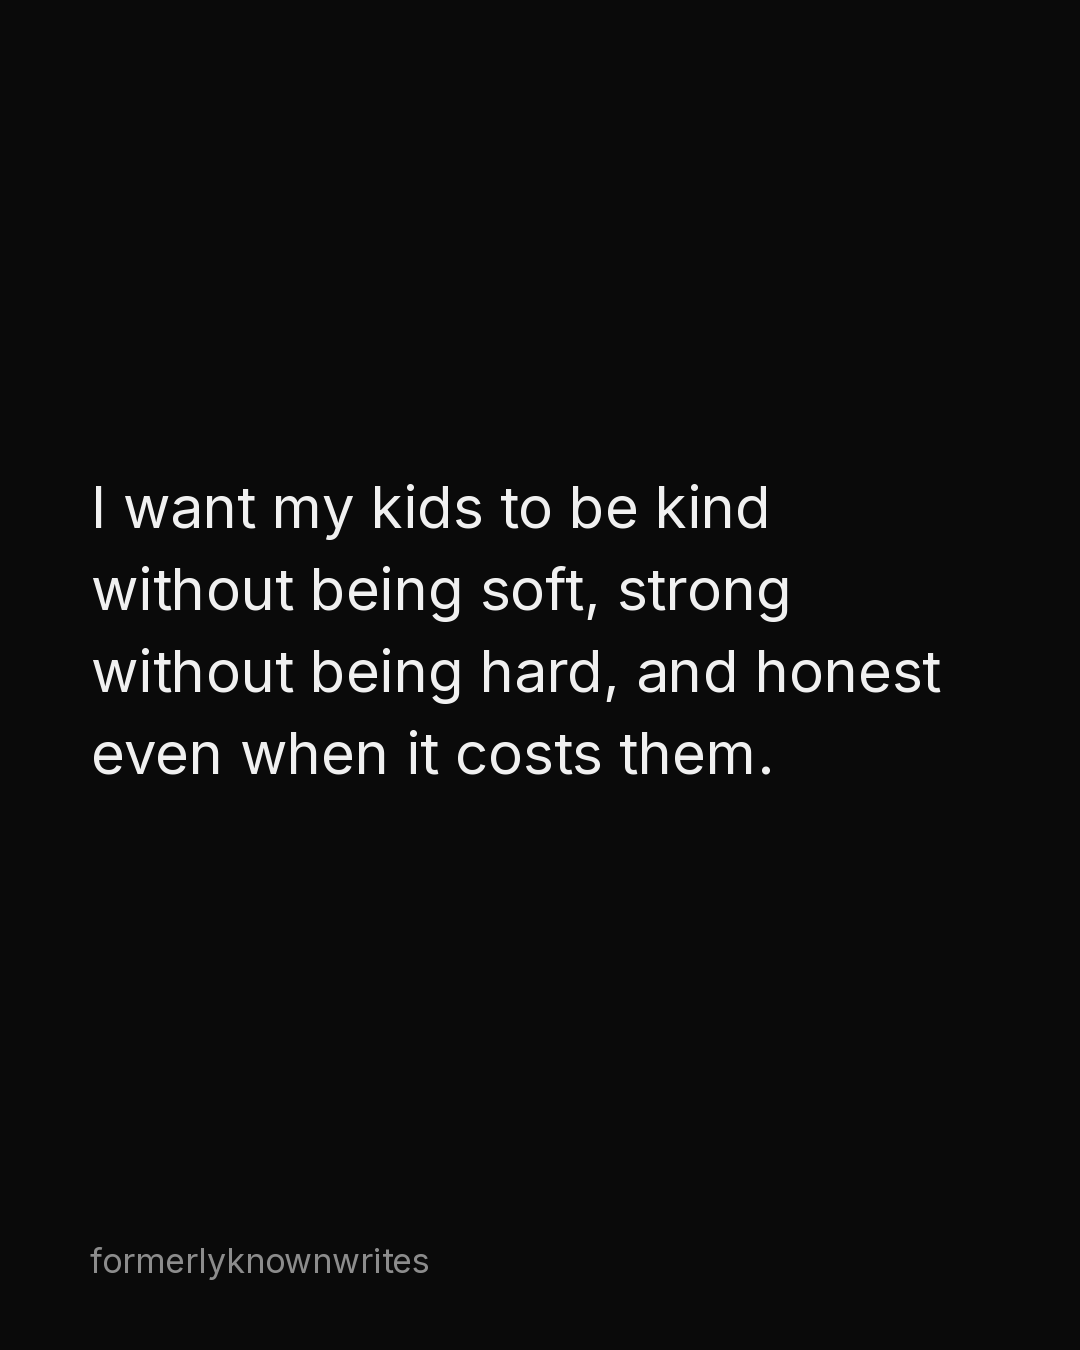
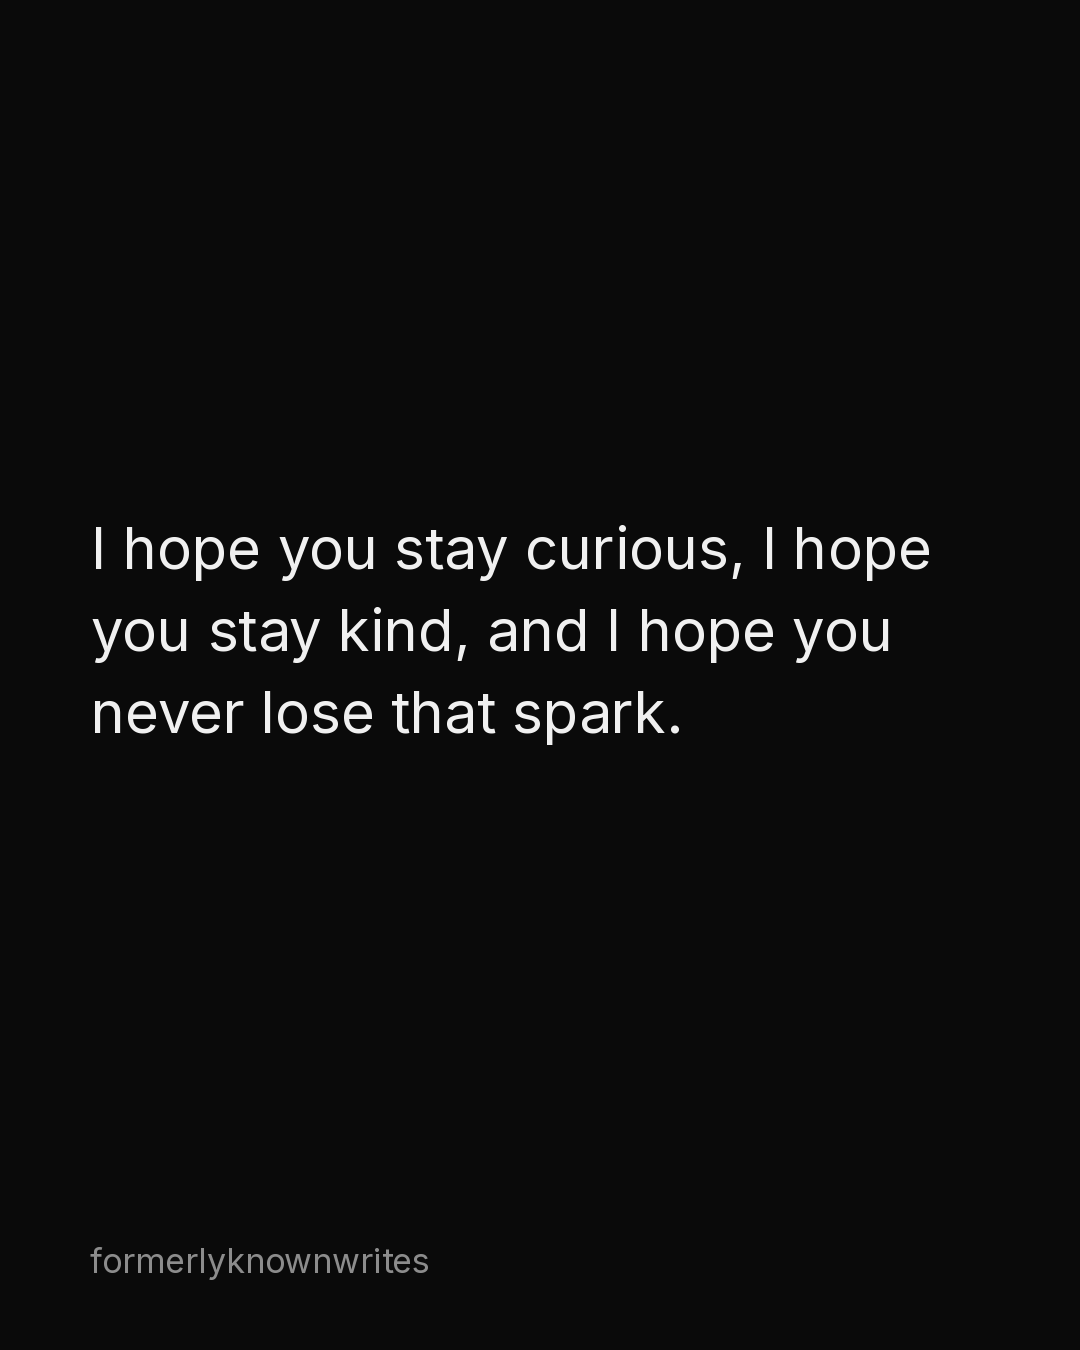
Rewrite scheduled fatherhood posts in a warmer voice and tune refill voice
Claude-Session: https://claude.ai/code/session_01CxChRxeGvQoxpyPYG1GdJD

Changed region(s): [[0.0917, 0.3422, 0.8861, 0.5911]]

diff --git a/tools/refill.py b/tools/refill.py
@@ -43,6 +43,7 @@ Hard rules:
 - Never use em dashes or en dashes. Use commas, periods, or parentheses.
 - Universal wording only. Never point at a specific person or relationship. Every post must be about an experience in general and read as safe if screenshotted and shown to anyone.
 - Tone for any post about parenting: warm, patient, steady, and child-centered. Never harsh, rigid, cold, or controlling. No lines about a cruel or ungentle world, and no scorekeeping about who shows up or when.
+- Parenting voice, how this father actually talks about his kids: tender and affirming, often speaking straight to the child ("you"). Love that does not have to be earned. "You are enough." Being a steady presence through life's storms rather than promising to prevent them. Faith and family as what holds him up. Encouraging kids to stay curious, kind, imaginative, and true to themselves, to follow the dreams in their own heart, to balance passion with gentleness, and to get back up when they stumble. Gratitude for what his children teach him. Humble about his own imperfection ("some days I wish for a do-over"). Never stern, never lecturing, never a list of rules.
 - Never imply anyone else fails at what a post describes, never attribute motives to other people, and never mention schedules, days of the week, or being absent or away.
 - Betrayal posts stay general. Nothing about people close to you using or targeting you.
 - Do not repeat or closely paraphrase any quote in the AVOID list.

diff --git a/tools/render_post.py b/tools/render_post.py
@@ -76,6 +76,20 @@ def _wrap(text, font, max_width):
                 lines.append(cur)
                 cur = w
         lines.append(cur)
+    return _fix_orphans(lines, font, max_width)
+
+
+def _fix_orphans(lines, font, max_width):
+    """Avoid a lone one-word last line by pulling one word down from the line above,
+    when the result still fits."""
+    if len(lines) < 2:
+        return lines
+    last = lines[-1]
+    prev_words = lines[-2].split()
+    if len(last.split()) == 1 and len(prev_words) > 3:
+        moved = prev_words[-1] + " " + last
+        if font.getlength(moved) <= max_width:
+            lines = lines[:-2] + [" ".join(prev_words[:-1]), moved]
     return lines
 
 
